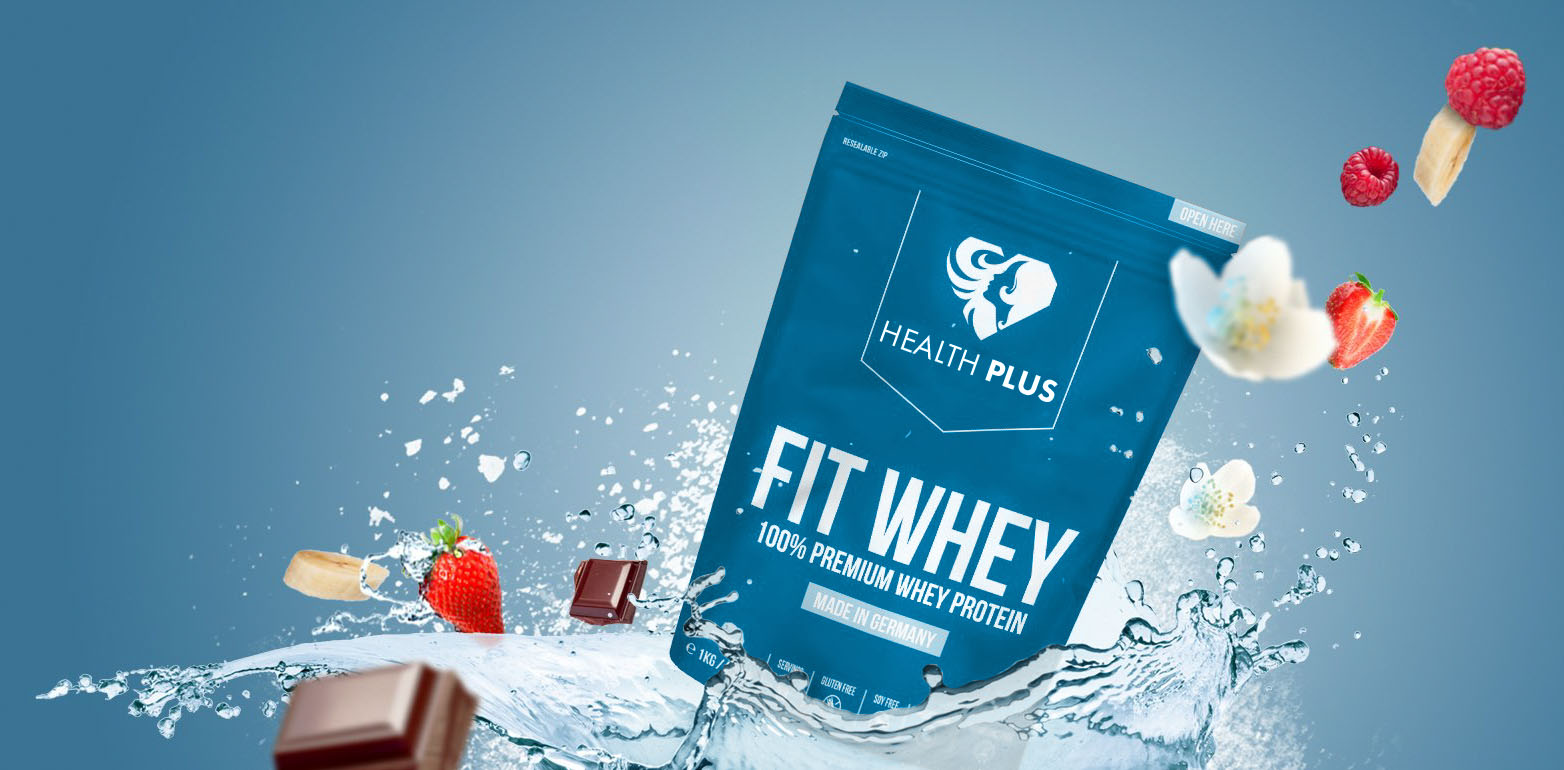
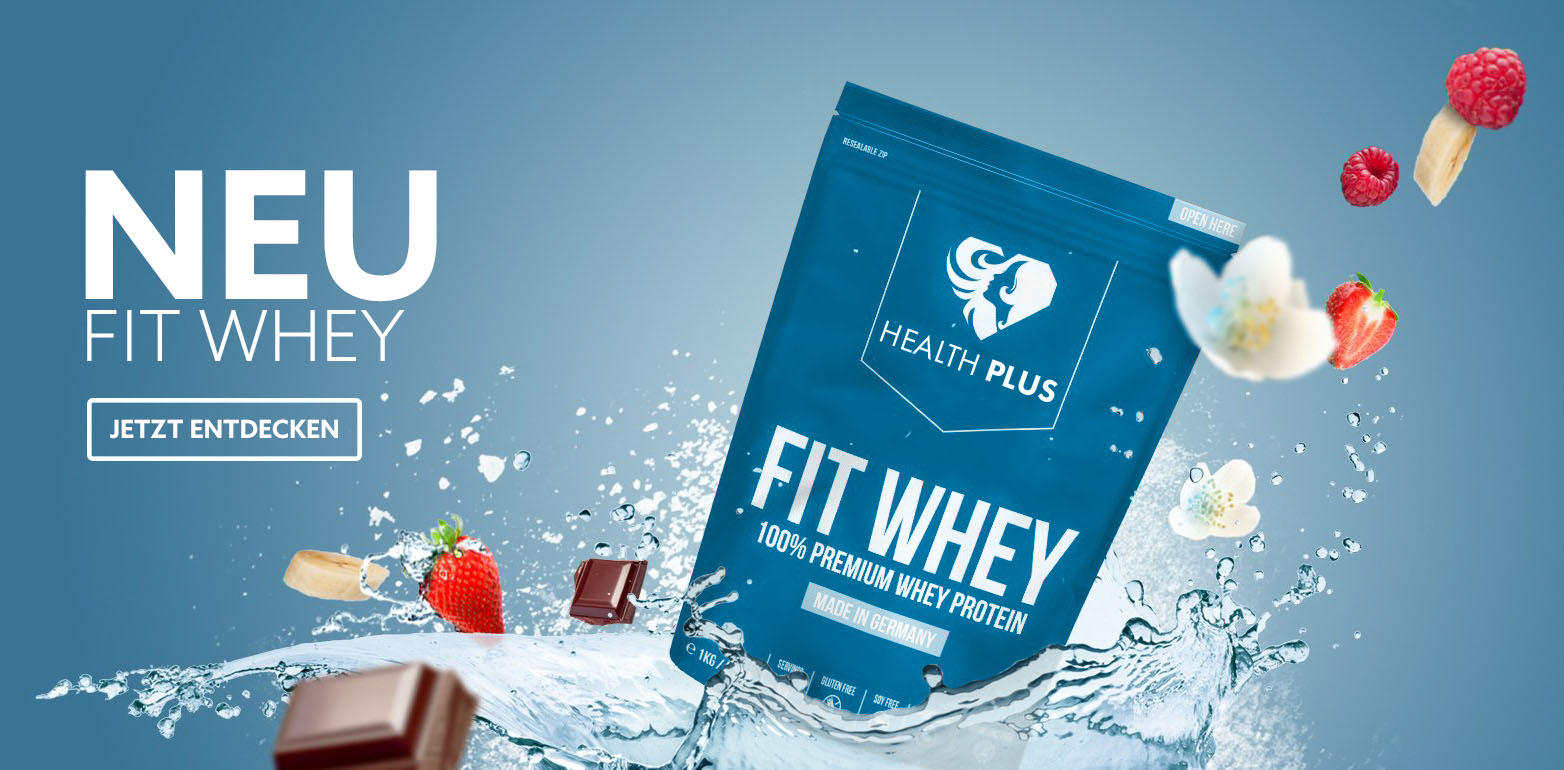
Index + Navbar

Changed region(s): [[0.0307, 0.2182, 0.3069, 0.4675], [0.0307, 0.4987, 0.2455, 0.6234]]

diff --git a/style_index.css b/style_index.css
@@ -1,5 +1,5 @@
 .navbar{
-    background-color: #F2F2F2;
+    background-color: white;
 }
 
 .navbar #navbarDropdown{
@@ -26,8 +26,7 @@
 #blog:hover{
     color: #29ABE2;
 }
-.container-fluid{
-}
+
 .footernav{
     background-color: #333333;
     height: 60px;
@@ -40,3 +39,5 @@
 .footernav #footeritem a:hover{
     color: #29ABE2;
 }
+
+

diff --git a/index.php b/index.php
@@ -52,12 +52,40 @@
         </div>
     </div>
 </nav>
-<div class="container-fluid bg-white">
-    <img class="img-fluid" src="bilder/shop_banner_start.jpg">
-    <h1>NEU</h1>
-    <h2>COMPLEX<br>WEIGHT GAINER</h2>
-    <button type="submit" class="btn-outline-light">JETZT ENTDECKEN</button>
-</div>
+<div class="container">
+    <div id="slider_home" class="carousel slide" data-ride="carousel">
+        <ol class="carousel-indicators">
+            <li data-slide-to="0" class="active"></li>
+            <li data-slide-to="1"></li>
+            <li data-slide-to="2"></li>
+        </ol>
+        <div class="carousel-inner" role="listbox">
+            <div class="carousel-item active">
+                <img class="img-fluid w-100" src="bilder/slider_01.jpg" alt="First slide">
+            </div>
+            <div class="carousel-item">
+                <img class="img-fluid w-100" src="bilder/slider_02.jpg" alt="Second slide">
+            </div>
+            <div class="carousel-item">
+                <img class="img-fluid w-100" src="bilder/slider_03.jpg" alt="Third slide">
+            </div>
+            <div class="carousel-item">
+                <img class="img-fluid w-100" src="bilder/slider_04.jpg" alt="Third slide">
+            </div>
+        </div>
+        <a class="carousel-control-prev" href="#slider_home" role="button" data-slide="prev">
+            <span class="carousel-control-prev-icon" aria-hidden="true"></span>
+            <span class="sr-only">Previous</span>
+        </a>
+        <a class="carousel-control-next" href="#slider_home" role="button" data-slide="next">
+            <span class="carousel-control-next-icon" aria-hidden="true"></span>
+            <span class="sr-only">Next</span>
+        </a>
+    </div>
+
+<div class="mt-5 text-center Oberueberschirft">NEW ARRIVALS</div>
+<div class="row justify-content-center">
+    <div class='new-release mt-4 col-12 col-sm-6 col-lg-3'><a href='index.php?product=32'><div class='card img-container'><div class='overlay'><div>Show</div></div><img class='card-img-top' width='100%' src='images/products/kissen_herz_web.jpg'><div class='card-body'><h5>Pink Pillow</h5><p class='text-muted'>35.00€</p></div></div></a></div><div class='new-release mt-4 col-12 col-sm-6 col-lg-3'><a href='index.php?product=31'><div class='card img-container'><div class='overlay'><div>Show</div></div><img class='card-img-top' width='100%' src='images/products/JO-JUDY_Rose_Print_S_05_1920x1920@2x.jpg'><div class='card-body'><h5>Poster "S"</h5><p class='text-muted'>10.00€</p></div></div></a></div><div class='new-release mt-4 col-12 col-sm-6 col-lg-3'><a href='index.php?product=30'><div class='card img-container'><div class='overlay'><div>Show</div></div><img class='card-img-top' width='100%' src='images/products/kissen_augen_web_600x600@2x.jpg'><div class='card-body'><h5>Pillow Eyes</h5><p class='text-muted'>35.00€</p></div></div></a></div><div class='new-release mt-4 col-12 col-sm-6 col-lg-3'><a href='index.php?product=7'><div class='card img-container'><div class='overlay'><div>Show</div></div><img class='card-img-top' width='100%' src='images/products/Notepad_growwild.jpg'><div class='card-body'><h5>Card Leaves</h5><p class='text-muted'>7.00€</p></div></div></a></div></div></div>
 <!-- Optional JavaScript -->
 <!-- jQuery first, then Popper.js, then Bootstrap JS -->
 <script src="https://code.jquery.com/jquery-3.2.1.slim.min.js" integrity="sha384-KJ3o2DKtIkvYIK3UENzmM7KCkRr/rE9/Qpg6aAZGJwFDMVNA/GpGFF93hXpG5KkN" crossorigin="anonymous"></script>
